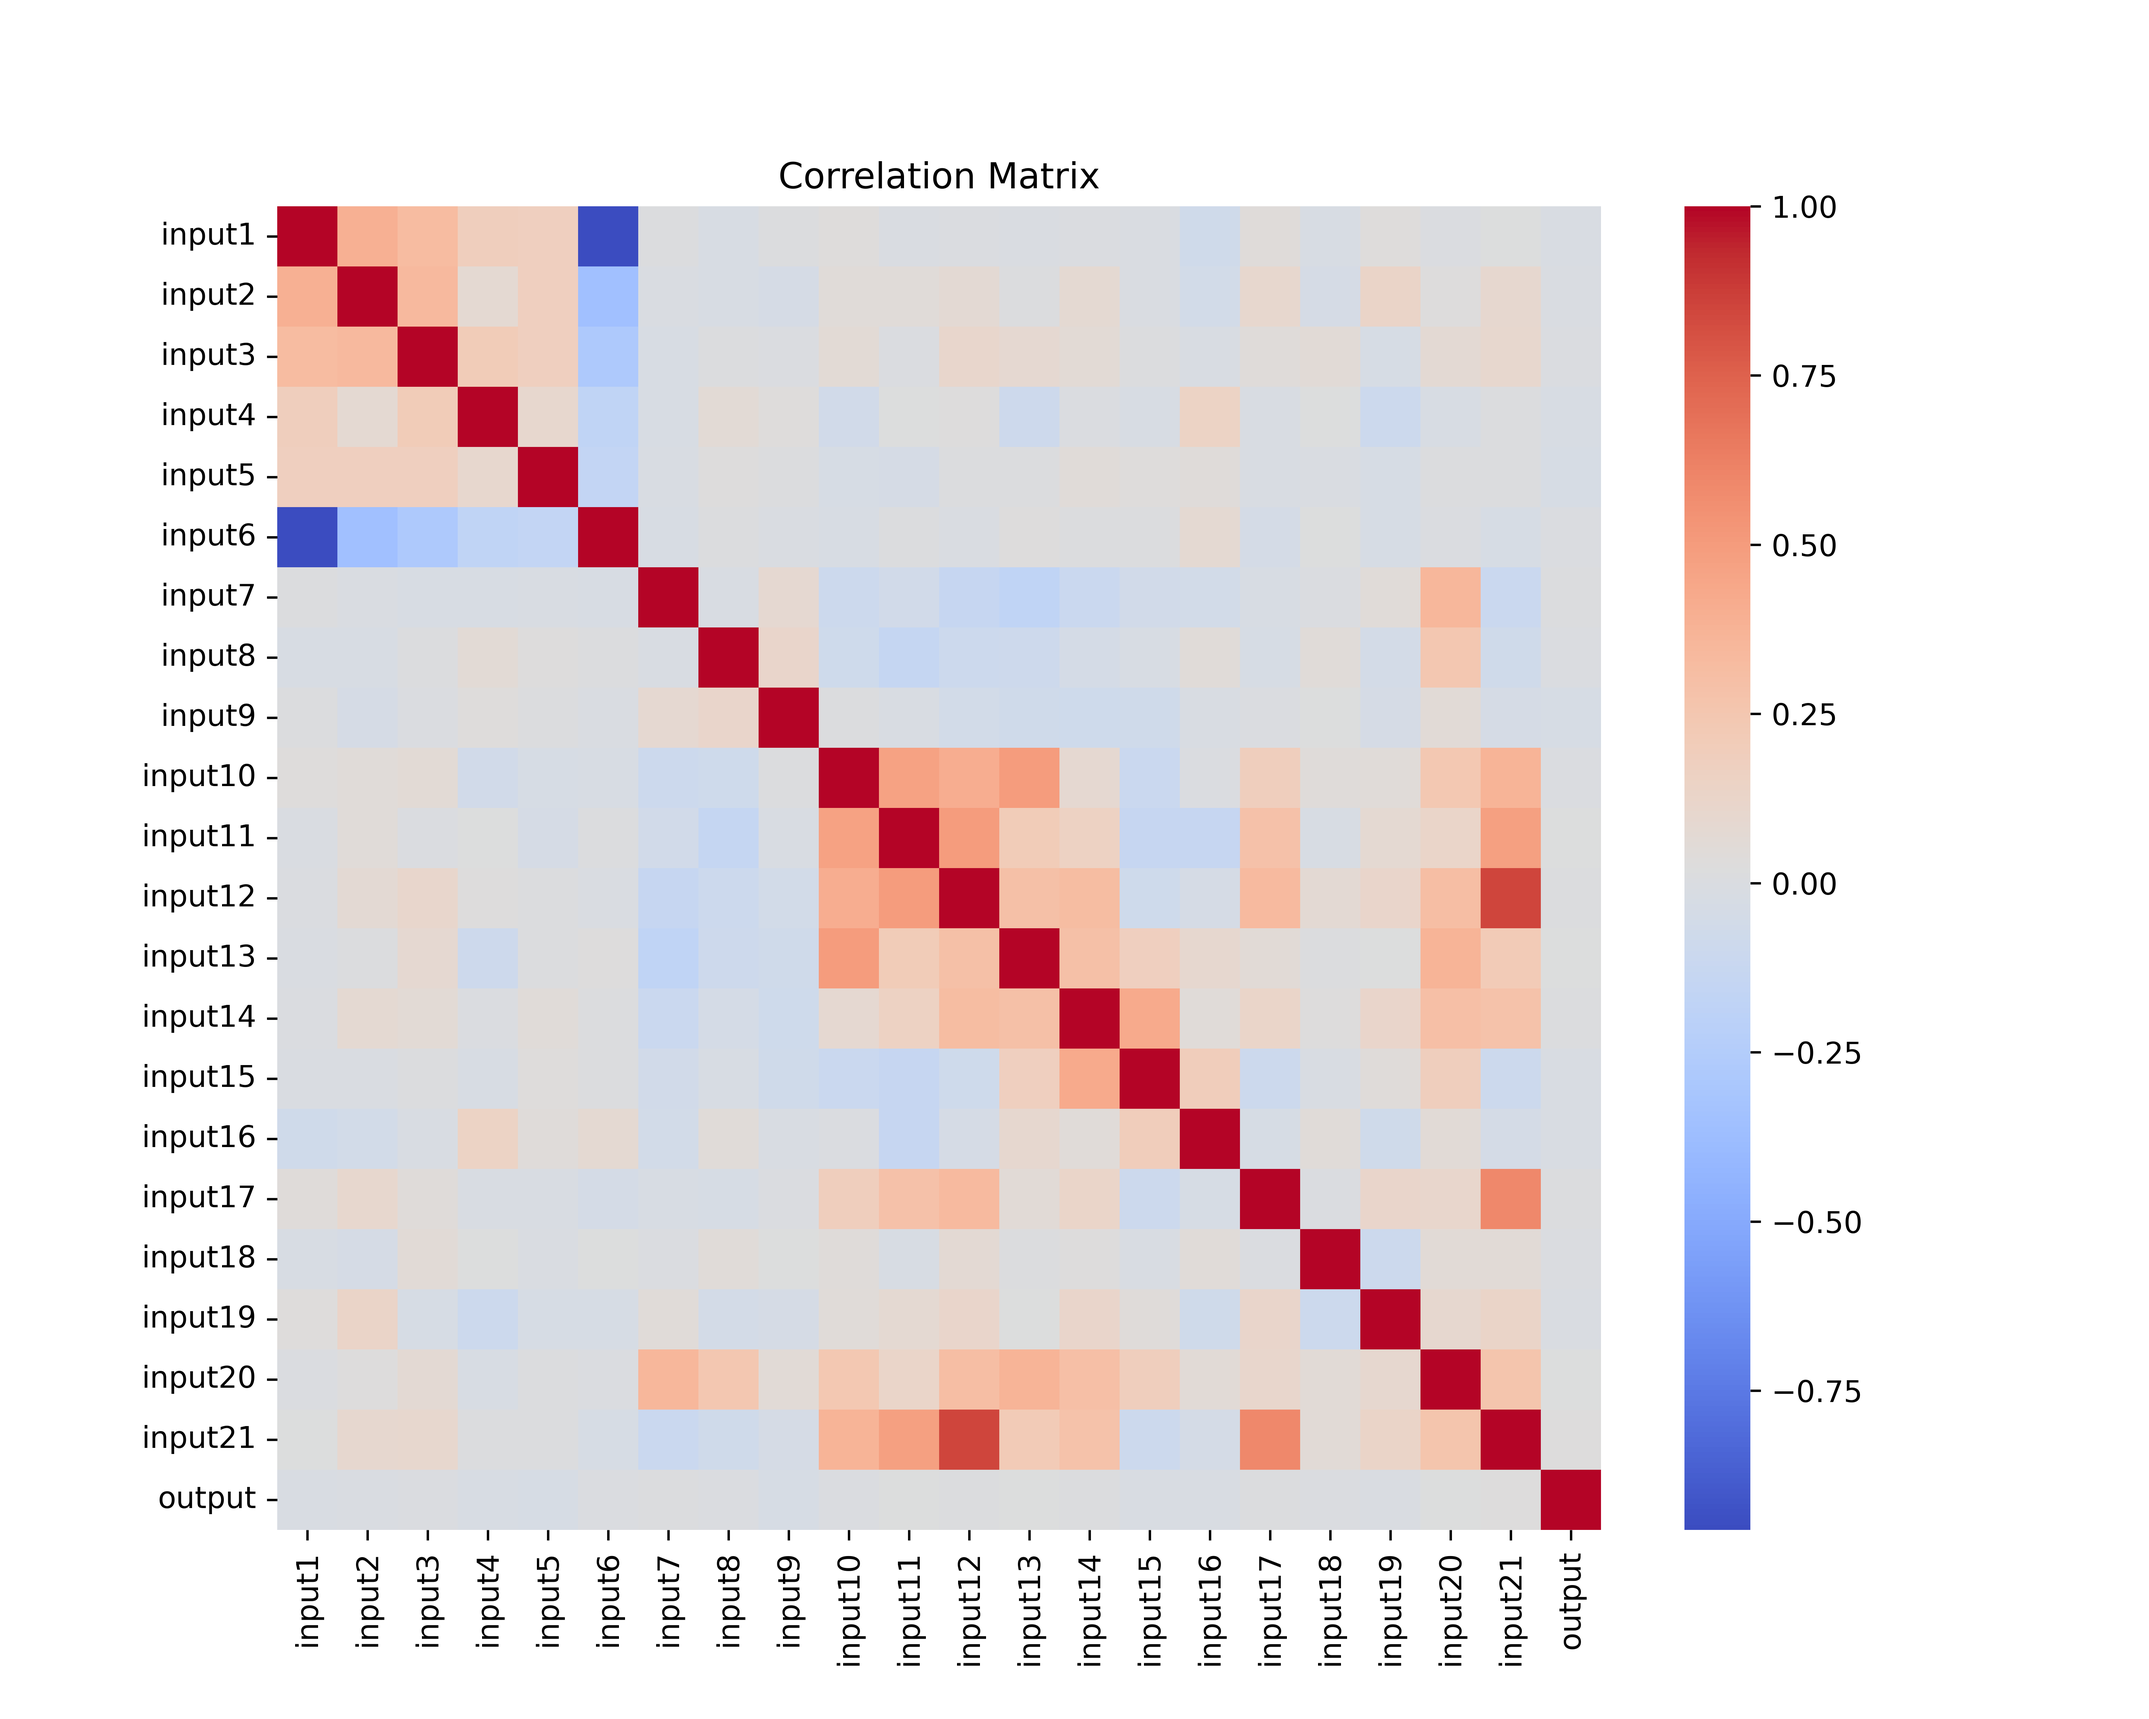
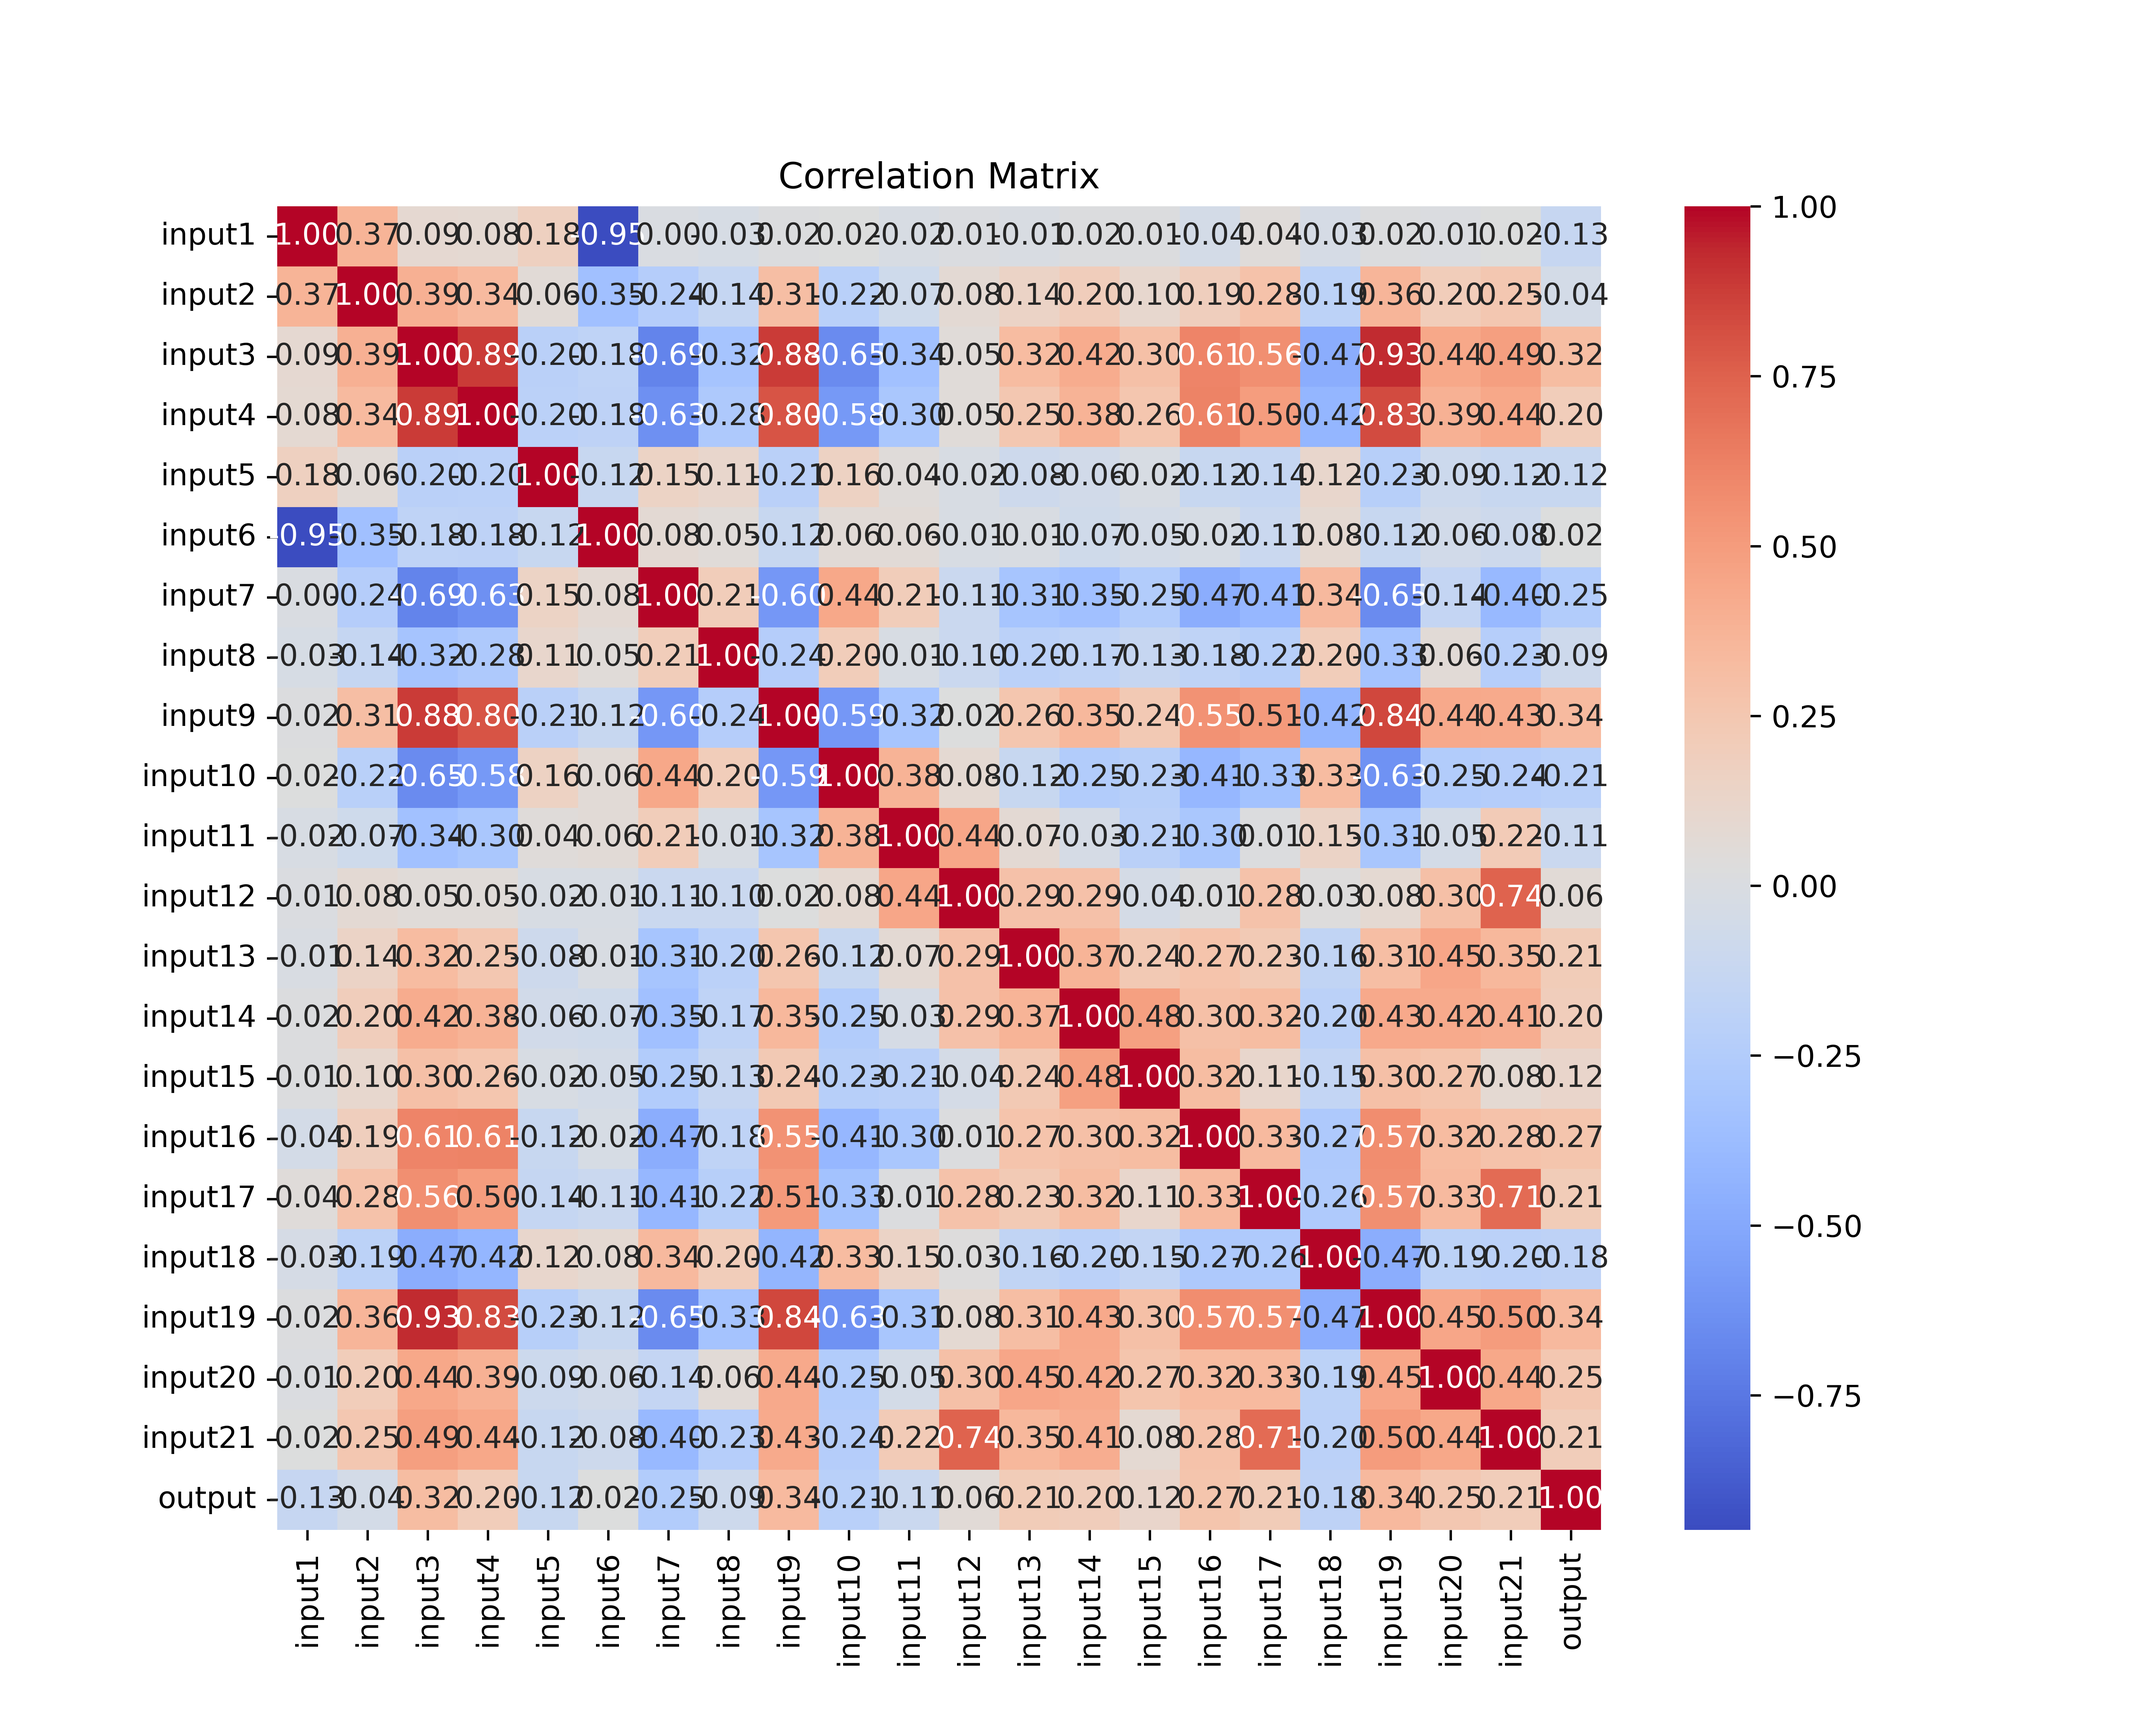
steel6

Changed region(s): [[0.1247, 0.0938, 0.748, 0.9062], [0.8415, 0.6875, 0.8727, 0.7188], [0.8415, 0.5938, 0.8727, 0.625]]

diff --git a/scripts/model_training.py b/scripts/model_training.py
@@ -1,9 +1,21 @@
+import time
+import numpy as np
 import pandas as pd
 import matplotlib.pyplot as plt
 from sklearn.model_selection import train_test_split
+from sklearn.ensemble import RandomForestRegressor
+from sklearn.svm import SVR
+from sklearn.neural_network import MLPRegressor
+from sklearn.gaussian_process import GaussianProcessRegressor
+from sklearn.model_selection import GridSearchCV
+from sklearn.model_selection import RandomizedSearchCV
 import eda
 from data_loading import load_steel_data
+from data_preprocessing import data_preprocessing_pipeline
 from data_preprocessing import process_data
+from results_analysis import calculate_metrics
+from results_analysis import plot_predictions_vs_actual
+from results_analysis import plot_learning_curve
 
 
 #################################################################
@@ -16,43 +28,148 @@ data_test = load_steel_data("data/normalized_test_data.csv")
 # create a data copy
 train_ori = data_train.copy()
 test_ori = data_test.copy()
-y_ori = train_ori["output"]
-X_ori = train_ori.drop(columns=["output"])
-y_test = test_ori["output"]
-X_test = test_ori.drop(columns=["output"])
+data = pd.concat([train_ori, test_ori], axis=0).reset_index(drop=True)
+labels = data["output"]
+features = data.drop(columns=["output"]) 
 
 # split  data into train / validation / test sets 
-X_train, X_val, y_train, y_val = train_test_split(X_ori, y_ori, test_size=0.2, random_state=42)
-
+X_train_split, X_temp, y_train, y_temp = train_test_split(features, labels, test_size=0.3, random_state=42)
+X_val_split, X_test_split, y_val, y_test = train_test_split(X_temp, y_temp, test_size=0.5, random_state=42)
 # data preprocessing
-X_train_pre = process_data(X_train)
-X_val_pre = process_data(X_val)
+pipeline = data_preprocessing_pipeline()
+
+print("Training set:")
+X_train = pipeline.fit_transform(pd.DataFrame(X_train_split))
+print("Validation set:")
+X_val = pipeline.transform(pd.DataFrame(X_val_split))
+print("Test set:")
+X_test = pipeline.transform(pd.DataFrame(X_test_split))
 
 #################################################################
 # 3. Data analysis plots
-train_set = pd.concat([X_train_pre, y_train], axis=1)
+train_set = pd.concat([X_train, y_train], axis=1)
 corr_matrix = train_set.corr()
 # plot the matrix correlation heatmap
 eda.plot_correlation_matrix(corr_matrix)
-plt.show()
+plt.savefig("figures/eda/correlation_matrix.png", dpi=600)
 
 # feature distributions
-eda.plot_feature_distributions(X_train_pre)
-plt.show()
+eda.plot_feature_distributions(X_train)
+plt.savefig("figures/eda/feature_distributions.png", dpi=600)
 
 # target variable distribution
 eda.plot_target_distributions(y_train)
-plt.show()
+plt.savefig("figures/eda/target_distributions.png", dpi=600)
 
 # box plots
 eda.plot_box(train_set)
-plt.show()
+plt.savefig("figures/eda/box_plots.png", dpi=600)
 
 # pair plots
 # Select the most correlated features with the output based on the correlation matrix heatmap
-features = ["output", "input1", "input2", "input3", "input4"]
+features = ["input1", "input2", "input3", "input4",  "output"]
 eda.plot_pair(train_set, features=features)
-plt.show()
+plt.savefig("figures/eda/pair_plot.png", dpi=600)
 
 #################################################################
 # 4. model training
+# (1). random forest
+rnd_reg = RandomForestRegressor(
+    n_estimators=200,
+    max_features=1.0,
+    max_depth=25,
+    min_samples_leaf=1,
+    min_samples_split=2,
+    bootstrap=True,
+    random_state=42,
+    n_jobs=-1
+)
+selected_params = [
+    'n_estimators', 'max_features', 'max_depth', 'max_leaf_nodes','max_samples','min_samples_leaf', 
+    'min_samples_split', 'bootstrap'
+    ]
+
+params = rnd_reg.get_params()
+for param, value in params.items():
+     if param in selected_params:
+          print(f'{param}={value}')
+
+
+start_time = time.time()
+rnd_reg.fit(X_train, y_train)
+train_time = time.time() - start_time
+print(f'训练时间：{train_time}')
+
+importances = rnd_reg.feature_importances_
+features_importance = pd.DataFrame({
+    "features": X_train.columns,
+    "importance": importances,
+})
+features_importance = features_importance.sort_values(by="importance", ascending=False)
+print(features_importance)
+
+rnd_y_train_pred = rnd_reg.predict(X_train)
+rnd_y_val_pred = rnd_reg.predict(X_val)
+rnd_y_test_pred = rnd_reg.predict(X_test)
+
+rnd_train_results = calculate_metrics(y_train, rnd_y_train_pred)
+rnd_val_results = calculate_metrics(y_val, rnd_y_val_pred)
+rnd_test_results = calculate_metrics(y_test, rnd_y_test_pred)
+
+print("RandomForest:")
+print(f'训练集：{rnd_train_results}')
+print(f'验证集：{rnd_val_results}')
+print(f'r2之差:{(rnd_train_results["r2"]-rnd_val_results["r2"]):.4f}')
+print(f'测试集：{rnd_test_results}')
+
+plot_predictions_vs_actual(y_val, rnd_y_val_pred, "RandomForest")
+plt.show()
+
+# plot_learning_curve(X_train, y_train, X_val, y_val, rnd_best)
+# plt.show()
+
+
+# (2).SVR
+svr = SVR(C=20)
+svr.fit(X_train, y_train)
+
+svr_train_pred = svr.predict(X_train)
+svr_val_pred = svr.predict(X_val)
+
+svr_train_results = calculate_metrics(y_train, svr_train_pred)
+svr_val_results = calculate_metrics(y_val, svr_val_pred)
+
+print("SVR:")
+print(f'Training set:{svr_train_results}')
+print(f'Validation set:{svr_val_results}')
+
+
+# # (3).MLP
+# mlp = MLPRegressor()
+# mlp.fit(X_train, y_train)
+
+
+# mlp_train_pred = mlp.predict(X_train)
+# mlp_val_pred = mlp.predict(X_val)
+
+# mlp_train_results = calculate_metrics(y_train, mlp_train_pred)
+# mlp_val_results = calculate_metrics(y_val, mlp_val_pred)
+
+# print("MLP:")
+# print(f'Training set:{mlp_train_results}')
+# print(f'Validation set:{mlp_val_results}')
+
+
+# # 4. GPR
+# gpr = GaussianProcessRegressor()
+# gpr.fit(X_train, y_train)
+
+# gpr_train_pred = gpr.predict(X_train)
+# gpr_val_pred = gpr.predict(X_val)
+
+# gpr_train_results = calculate_metrics(y_train, gpr_train_pred)
+# gpr_val_results = calculate_metrics(y_val, gpr_val_pred)
+
+# print("GPR:")
+# print(f'Training set:{gpr_train_results}')
+# print(f'Validation set:{gpr_val_results}')

diff --git a/scripts/results_analysis.py b/scripts/results_analysis.py
@@ -1,0 +1,70 @@
+import pandas as pd
+import numpy as np
+import matplotlib.pyplot as plt
+from sklearn.metrics import root_mean_squared_error, mean_absolute_error, r2_score
+
+#4.1 performance metrics
+def calculate_metrics(y_true, y_pred):
+    rmse = f'{root_mean_squared_error(y_true, y_pred):.4f}'
+    mae = f'{mean_absolute_error(y_true, y_pred):.4f}'
+    r2 = f'{r2_score(y_true, y_pred):.4f}'
+    results ={
+        "rmse": float(rmse),
+        "mae": float(mae),
+        "r2": float(r2),
+    }
+    return results
+
+
+def create_performance_table(results):
+    """Create comparative performance table"""  
+    results.to_csv("results/comparative_performance.csv", index=False)
+
+
+# 4.2 visualize
+def plot_model_comparison(results):
+    """Create bar plots with error bars"""
+    pass
+
+
+def plot_predictions_vs_actual(y_true, y_pred, model_name):
+    """Scatter plot of predictions vs actual values"""
+    fig, ax = plt.subplots(figsize=(10, 8))
+    ax.scatter(y_true, y_pred, c="b", alpha=0.7)
+    min_val = min(y_true.min(), y_pred.min())
+    max_val = max(y_true.max(), y_pred.max())
+    ax.plot([min_val, max_val],[min_val, max_val], linestyle="--", c="g", label="ideal line")
+    ax.set_title(model_name)
+    ax.legend()
+
+
+def plot_residuals(y_true, y_pred, model_name):
+    """Plot residual analysis"""
+    residuals = y_pred - y_true
+
+    fig, ax = plt.subplots(figsize=(10, 8))
+    ax.scatter(y_true, residuals)
+    ax.axhline(0, linestyle="--", color="r")
+    ax.set_title(model_name+"——residual")
+
+
+def plot_learning_curve(X_train, y_train, X_val, y_val, model):
+    percentages = np.arange(0, 1.1, 0.1)
+    sizes = (len(X_train) * percentages).astype(int)
+    train_rmse, val_rmse = [], []
+    for s in sizes[1:]:
+        model.fit(X_train[:s], y_train[:s])
+        y_train_pred = model.predict(X_train[:s])
+        y_val_pred = model.predict(X_val)
+        train_rmse.append(root_mean_squared_error(y_train[:s], y_train_pred))
+        val_rmse.append(root_mean_squared_error(y_val, y_val_pred))
+    # plot
+    fig, ax = plt.subplots(figsize=(10, 8))
+    ax.plot(percentages[1:], train_rmse, linestyle="-", color="b", linewidth=2, label="Training RMSE")
+    ax.plot(percentages[1:], val_rmse, linestyle="--", color="r", linewidth=2, label="Validation RMSE")
+    ax.set_title("learning curve")
+    ax.legend()
+
+    
+
+

diff --git a/scripts/eda.py b/scripts/eda.py
@@ -5,17 +5,15 @@ import matplotlib.pyplot as plt
 # plot the matrix correlation heatmap
 def plot_correlation_matrix(corr_matrix):
     plt.figure(figsize=(10, 8))
-    sns.heatmap(corr_matrix, annot=False, fmt=".2f", cmap="coolwarm", square=True)
+    sns.heatmap(corr_matrix, annot=True, fmt=".2f", cmap="coolwarm", square=True)
     plt.title("Correlation Matrix")
 
 
 # plot feature distributions
 def plot_feature_distributions(X):
-    n_features = X.shape[1]
-    n_rows = (n_features + 3) // 4
-    X.hist(bins=20, figsize=(20, 16), layout=(5, 5))
-    plt.suptitle("Feature Distributions", fontsize=25)
-    plt.tight_layout()
+    X.hist(bins=20, figsize=(30, 25), layout=(4, 6))
+    plt.suptitle("Feature Distributions", fontsize=20)
+    # plt.tight_layout()
 
 
 # plot target variable distribution
@@ -28,21 +26,15 @@ def plot_target_distributions(y):
 
 # plot box plots
 def plot_box(X):
-    plt.figure(figsize=(20, 16))
-    X.boxplot(showfliers=True, rot=45, fontsize=16)
-    # set the line width
-    ax = plt.gca()
-    for item in ax.artists:
-        item.set_linewidth(3)  # 设置箱体的线宽
-    for line in ax.lines:
-        line.set_linewidth(3)
-    plt.title("Box plot of features", fontsize=25)
+    plt.figure(figsize=(10, 8))
+    X.boxplot(showfliers=True, rot=45, fontsize=14)
+    plt.title("Box plot of features", fontsize=16)
 
 
 # draw pair plots
 def plot_pair(X, features=None):
-    plt.figure(figsize=(10, 8))
-    sns.pairplot(X if features is None else X[features], diag_kind="hist")
-    plt.title("Pair Plot")
+    sns.pairplot(X if features is None else X[features], diag_kind="hist", height=2.5, aspect=1.2)
+    plt.subplots_adjust(top=0.9)
+    plt.suptitle("Pair Plot")
 
 

diff --git a/scripts/data_preprocessing.py b/scripts/data_preprocessing.py
@@ -2,6 +2,7 @@ import pandas as pd
 import numpy as np
 from sklearn.base import BaseEstimator, TransformerMixin
 from sklearn.pipeline import Pipeline
+from sklearn.preprocessing import StandardScaler
 
 
 # define removing duplicates function
@@ -76,16 +77,17 @@ class DetectOutliers(BaseEstimator, TransformerMixin):
     
             # marking outliers
             mask = (X_target[col] < lower) | (X_target[col] > upper)
-            # outlier_count = mask.sum()  # count the outliers
+            outlier_count = mask.sum()  # count the outliers
 
-            # # print the quantity of the replacement
-            # if outlier_count > 0:
-            #     print(f"Column '{col}' has {outlier_count} outliers replaced by {replace_value}.")
+            # print the quantity of the replacement
+            if outlier_count > 0:
+                print(f"Column '{col}' has {outlier_count} outliers replaced by {replace_value}.")
             # replace outliers
             if mask.any():
                 X_target.loc[mask, col] = replace_value
         return X_target
-        
+
+
 # handle the categorical variables
 class EncodeCategoricalVariables(BaseEstimator, TransformerMixin):
     """
@@ -105,10 +107,11 @@ pass
 
 # creat data preprocessing pipeline
 def data_preprocessing_pipeline():
-    pipeline = Pipeline(
-        [("handle_missing_values", HandleMissingValues()),
+    pipeline = Pipeline([
+         ("handle_missing_values", HandleMissingValues()),
          ("detect_outliers", DetectOutliers()),
          ("encode_categorical_variables", EncodeCategoricalVariables()),
+        #  ("standscaler", StandardScaler())
 
     ])
     return pipeline
